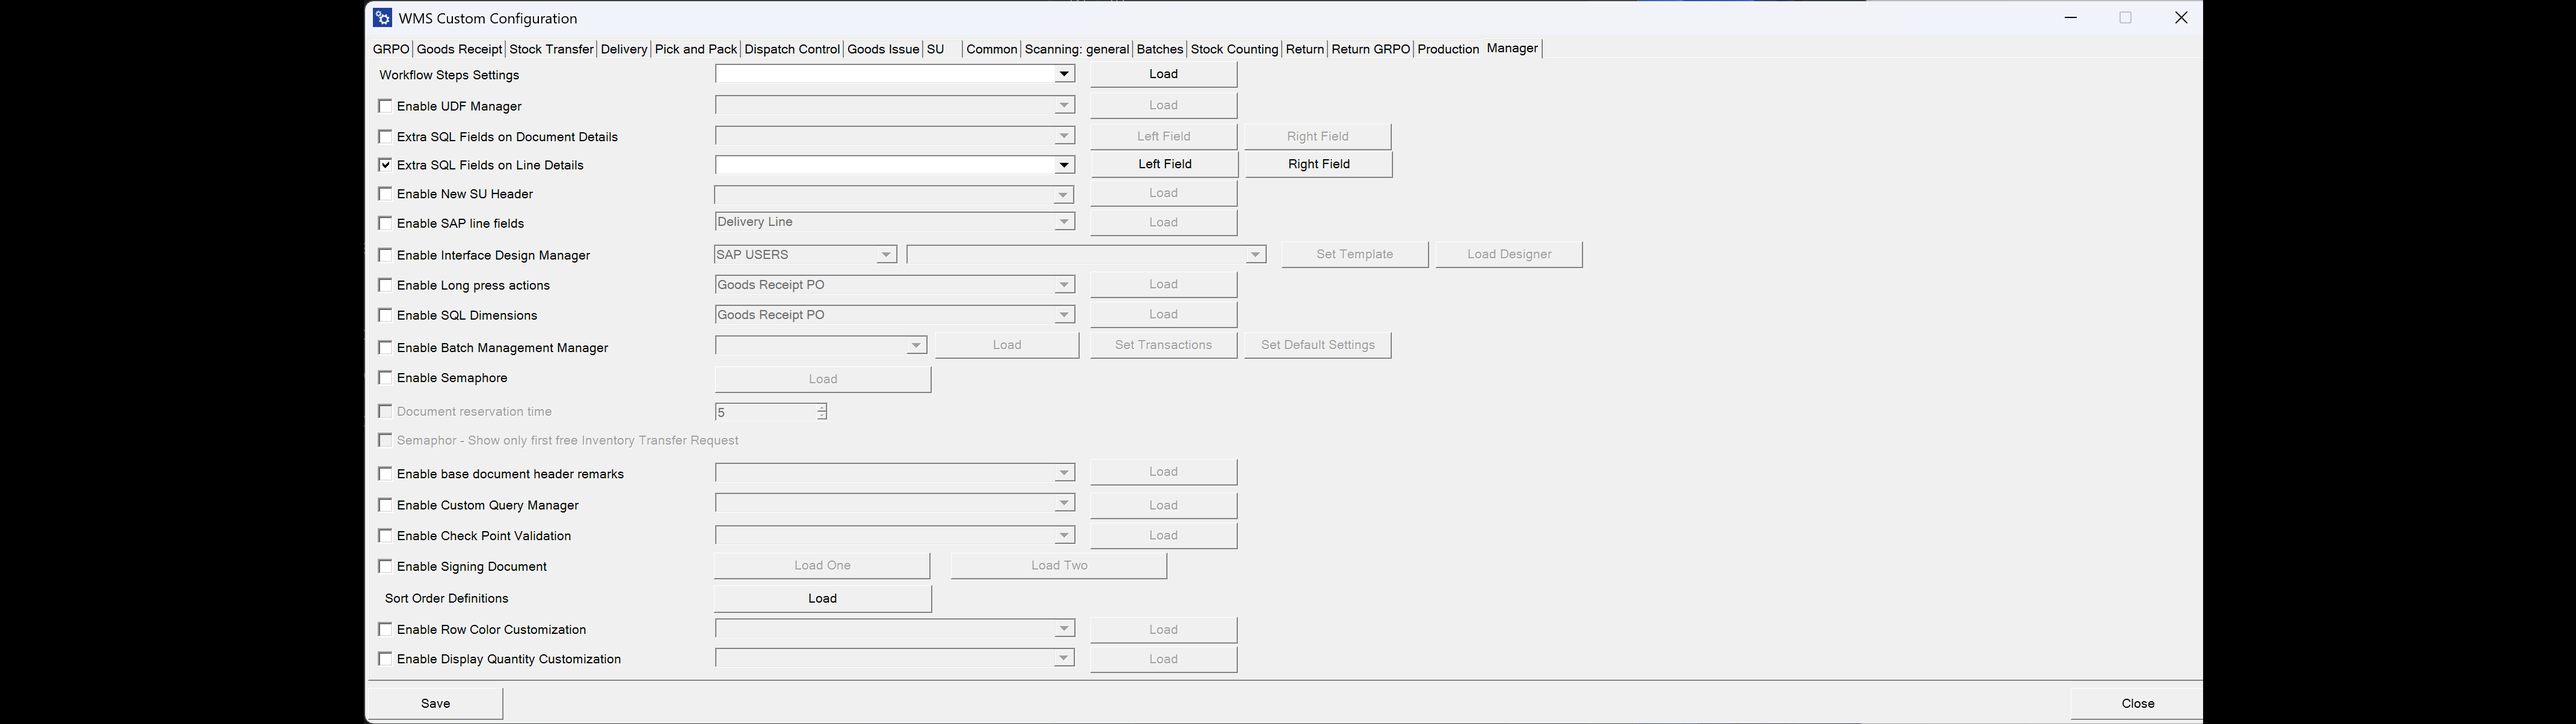
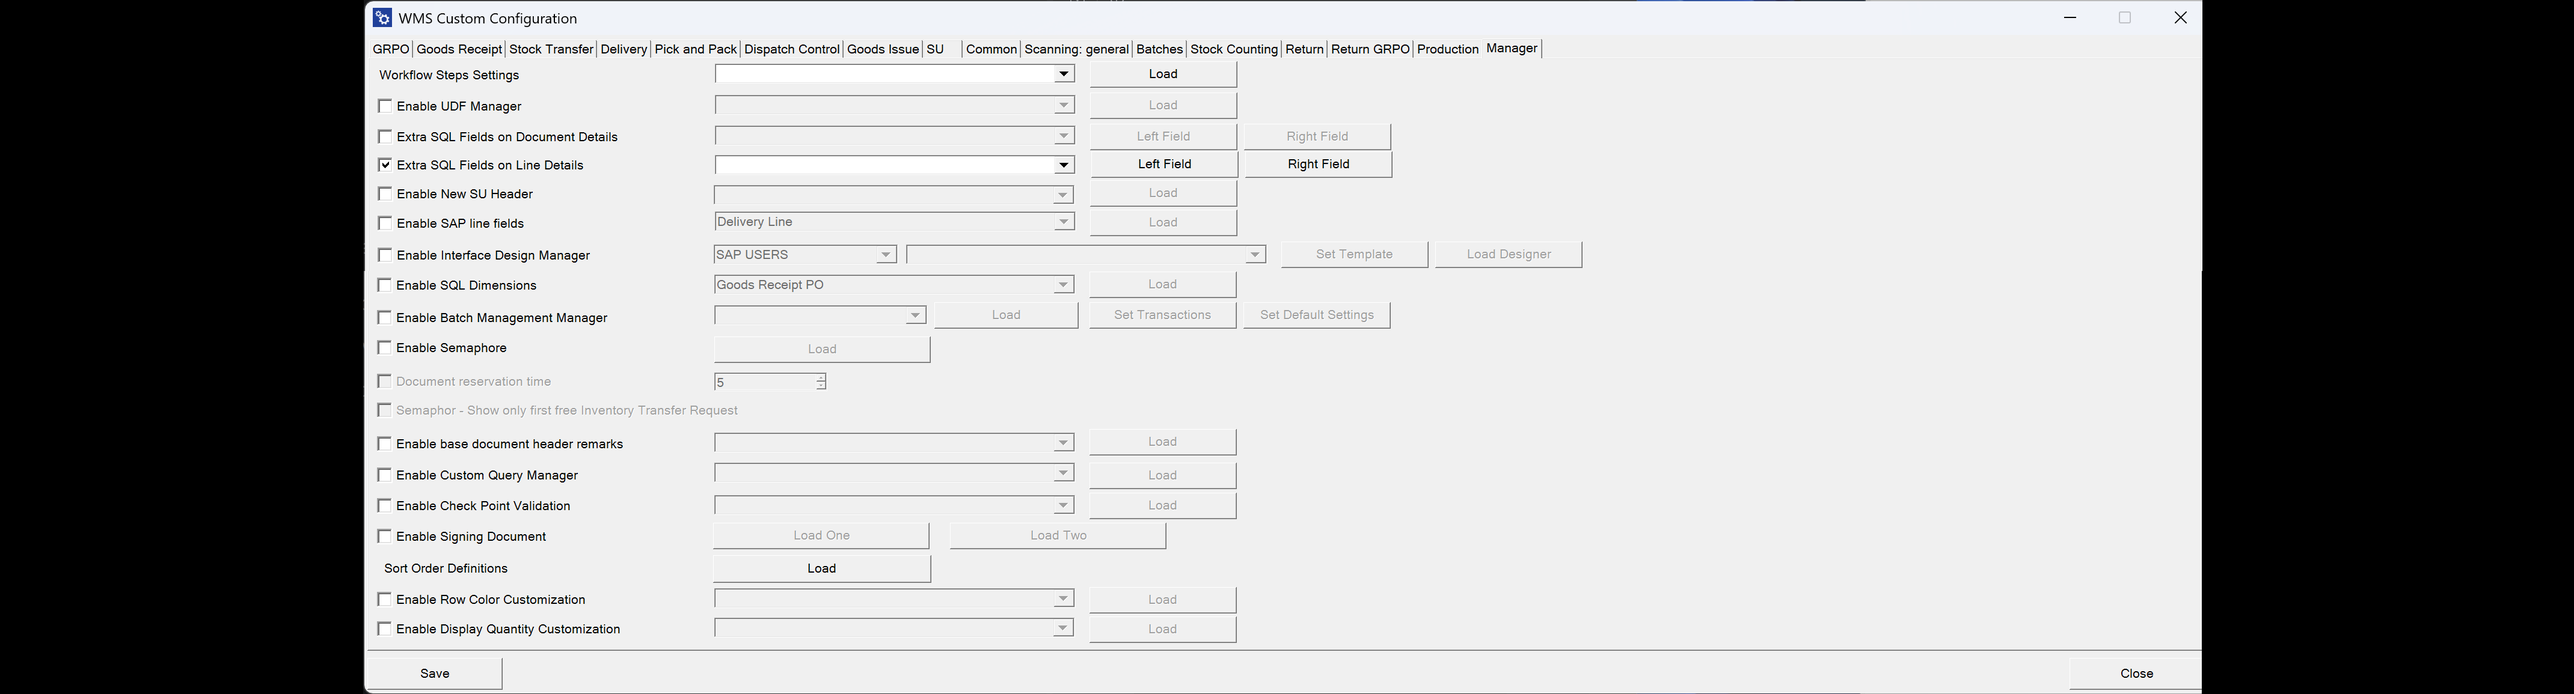
remove: document Long Press Actions configuration and update overview

diff --git a/docs/wms/administrator-guide/custom-configuration/custom-configuration-functions/manager/overview.md b/docs/wms/administrator-guide/custom-configuration/custom-configuration-functions/manager/overview.md
@@ -24,8 +24,6 @@ Here’s a rundown of the key settings available in the **Manager** tab.
 
 - **Enable Interface Design Manager** – With the Interface Designer Manager, users can customize main menu options, allowing a more personalized navigation experience within the SAP interface. [Read more](../../../custom-configuration/custom-configuration-functions/manager/interface-design-manager.md)
 
-- **Enable Long Press Actions** - Choose which actions appear in the Item and Storage Unit row menus for each transaction and set their display order. [Read more](/docs/wms/administrator-guide/custom-configuration/custom-configuration-functions/manager/long-press-actions)
-
 - **Enable SQL Dimensions** – This setting automates the choice of dimensions in transactions based on an SQL query, removing the need for manual dimension selection. It’s available for transactions like Goods Receipt PO, Stock Transfer, and Delivery.
     <details>
     <summary>Click here to find out more</summary>
